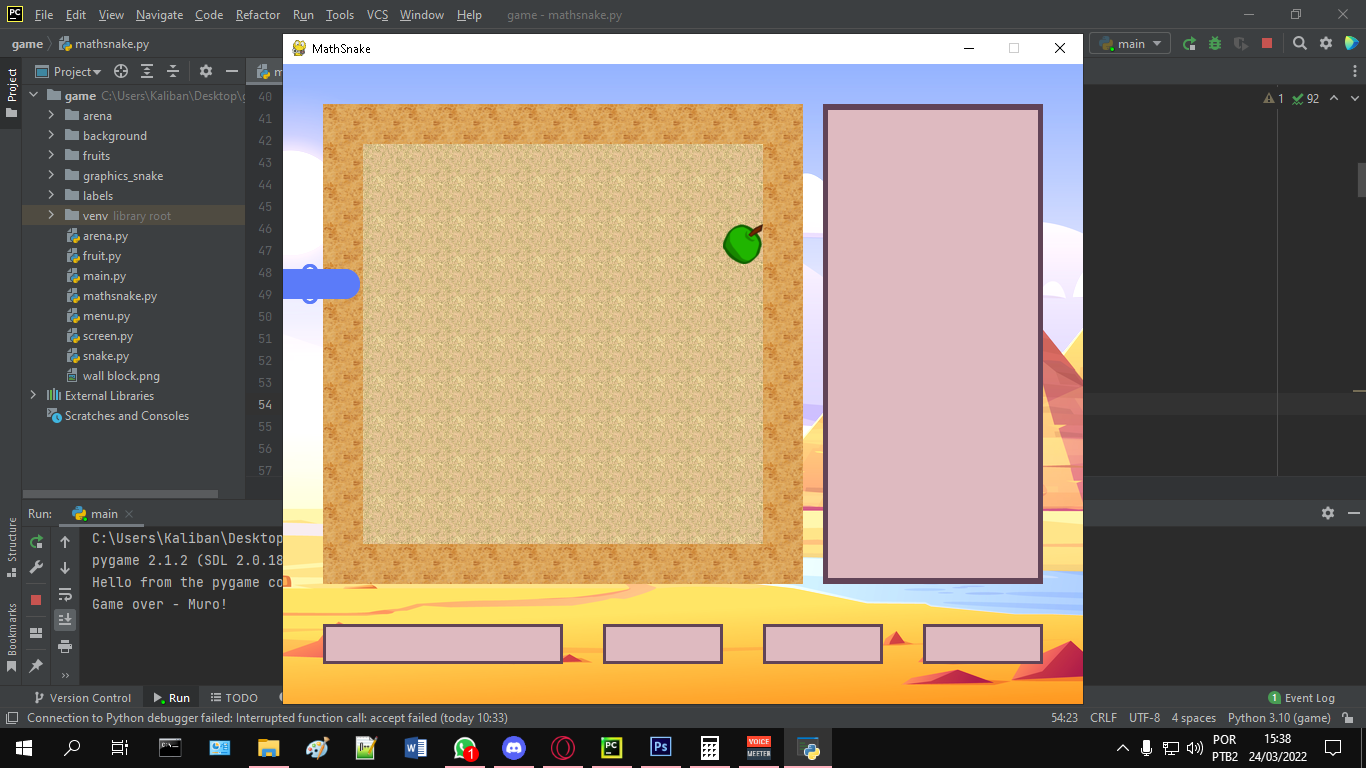
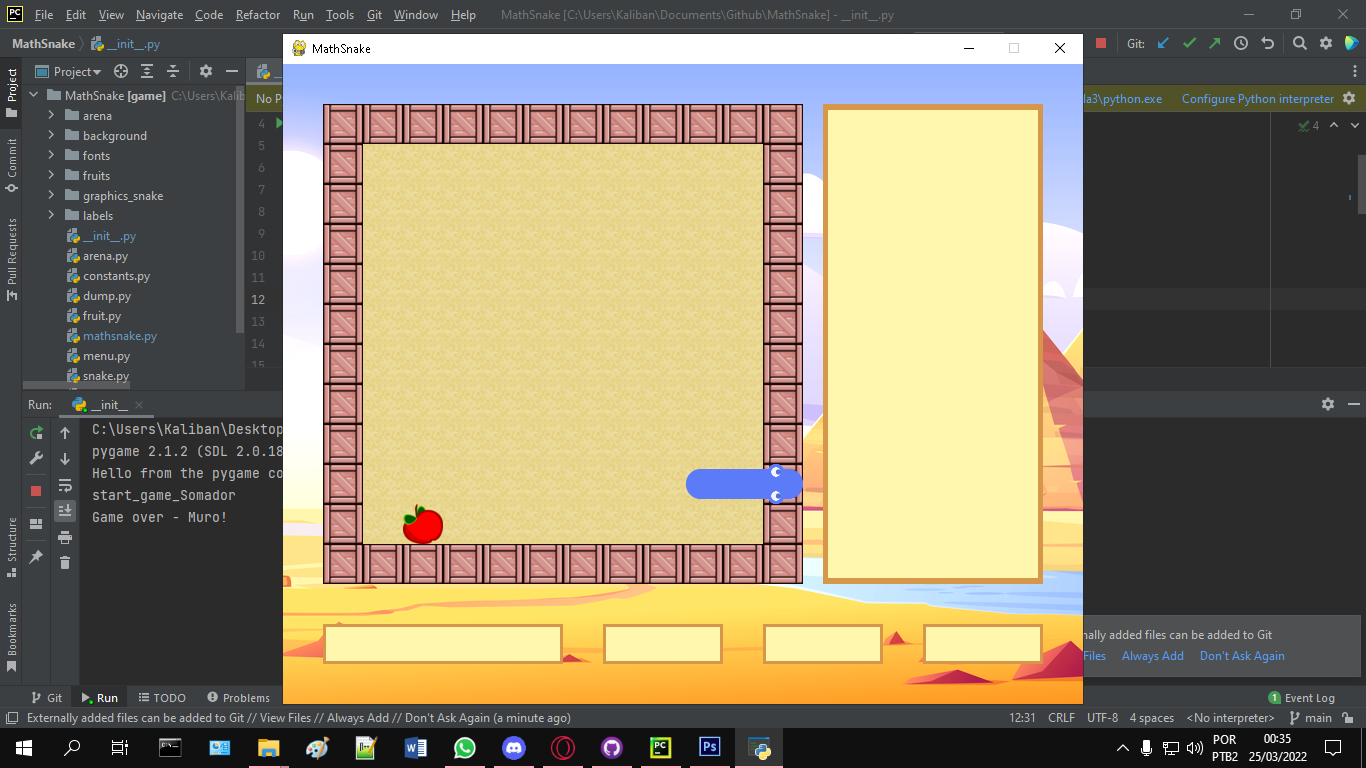
mapas terminados

diff --git a/mathsnake.py b/mathsnake.py
@@ -32,7 +32,7 @@ class MathSnake:
     WHITE = (255, 255, 255)
 
     # Constantes relacionadas às ações das frutas
-    CLOCK_DEFAULT = 30
+    CLOCK_DEFAULT = 4
     CLOCK_FAST = 6
     CLOCK_SLOW = 2
     TIME_TO_ANSWER_DEFAULT = 5.0
